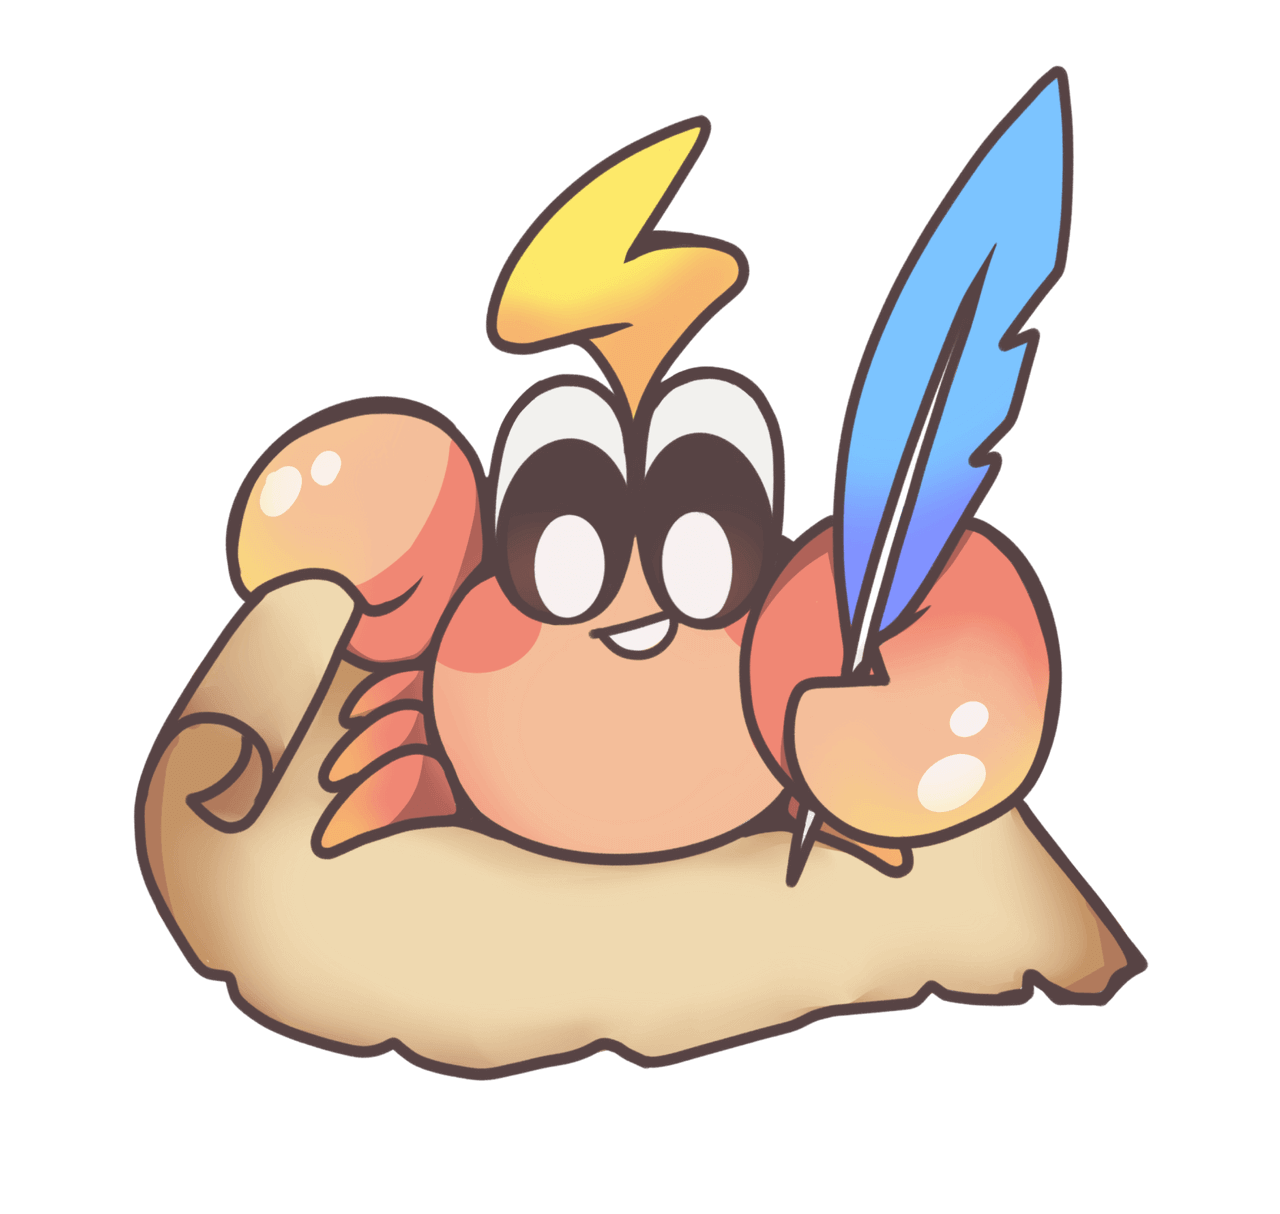
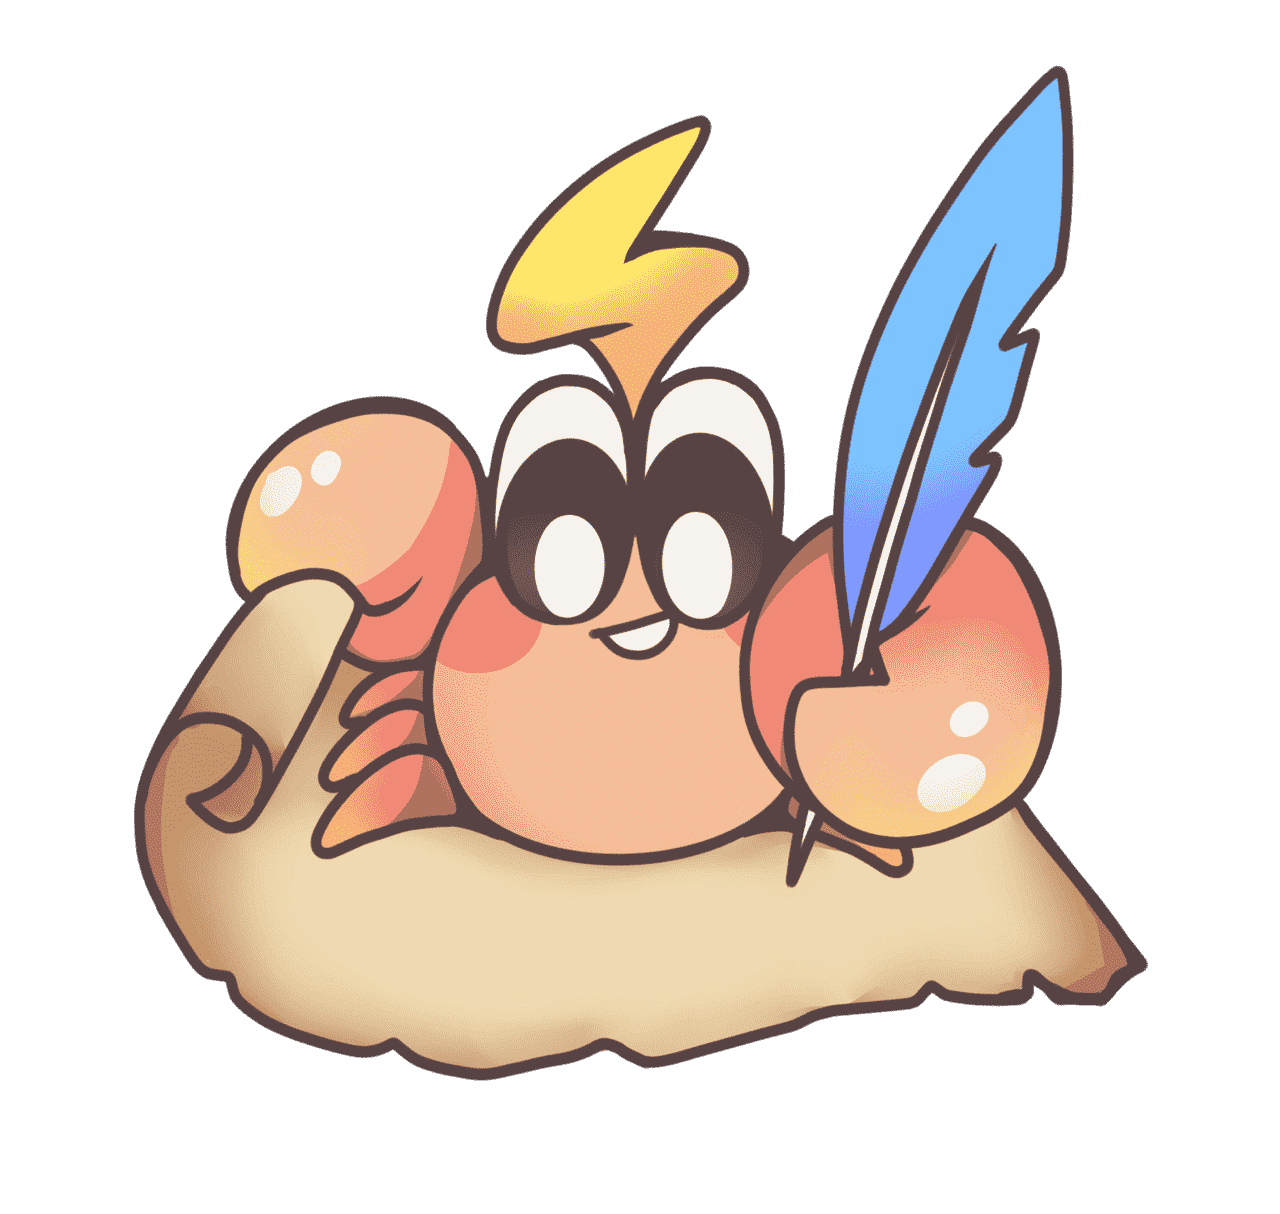
perf: 优化构建产物加载性能
- 添加 performance.removeConsole 移除生产环境 console 日志
- 添加 performance.buildCache 开启构建缓存
- 添加 performance.preload/prefetch 预加载/预取页面 chunk
- 设置 search.codeBlocks: false 减小搜索索引体积
- 添加 output.filenameHash 最大化浏览器缓存命中率

diff --git a/rspress.config.ts b/rspress.config.ts
@@ -9,6 +9,25 @@ export default defineConfig({
         id: 'G-7WCGTN4L3H',
       }),
     ],
+    performance: {
+      // 移除生产环境的 console 日志，减小 JS 体积
+      removeConsole: true,
+      // 开启构建缓存，加速重复构建
+      buildCache: true,
+      // 预加载当前页面的异步 chunk，加快首屏可交互时间
+      preload: true,
+      // 预取其他页面的 chunk，加快站内导航速度
+      prefetch: true,
+    },
+    output: {
+      // 对 JS 产物使用内容哈希，最大化浏览器缓存命中率
+      filenameHash: true,
+    },
+  },
+  // 搜索优化：不索引代码块内容，减小搜索索引体积
+  search: {
+    mode: 'local',
+    codeBlocks: false,
   },
   root: path.join(__dirname, 'docs'),
   title: 'Pi 中文文档',